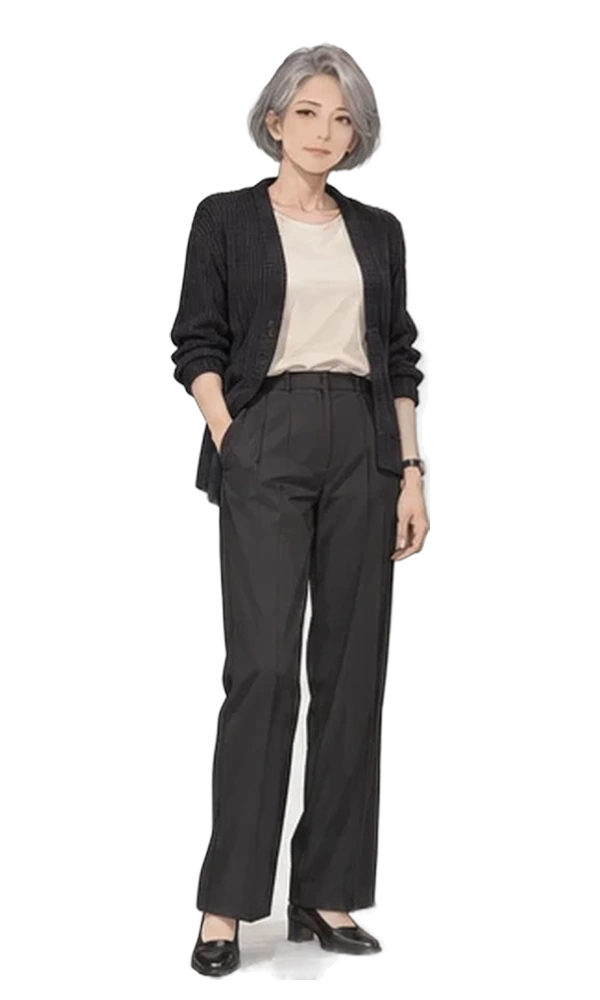
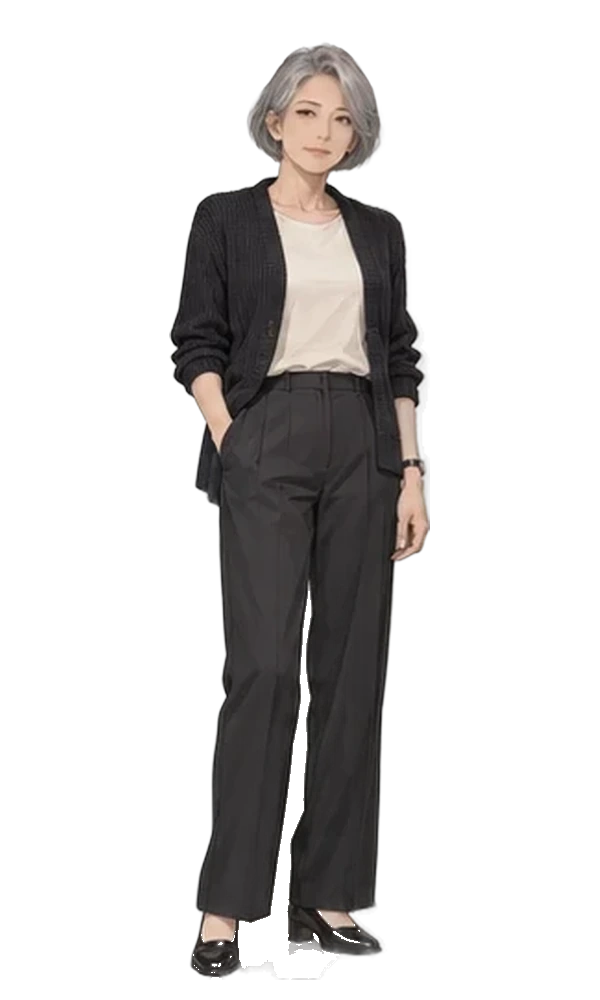
立繪表情第三批 5 張（BB-C 8f9b73b9、6ea1588f）：方奕廷 laugh、林教授 smile、周教授 smile、宥辰 smile／laugh——BB_219 第 1 節現有人物缺的 33 張到齊；林教授 neutral 兩腿中間的淺色底、腳下影子去掉
Claude-Session: https://claude.ai/code/session_01Me1thu8Zn934H58kWKNfuF

Changed region(s): [[0.39, 0.651, 0.57, 0.992]]

diff --git a/src/data/portrait_manifest.js b/src/data/portrait_manifest.js
@@ -43,7 +43,9 @@ const PORTRAIT_FILES={
  },
  "classmate_youchen": {
   "campus": [
-   "neutral"
+   "laugh",
+   "neutral",
+   "smile"
   ]
  },
  "econ_jiahao": {
@@ -176,6 +178,7 @@ const PORTRAIT_FILES={
  },
  "npc_fangyt": {
   "campus": [
+   "laugh",
    "neutral",
    "smile"
   ]
@@ -192,12 +195,14 @@ const PORTRAIT_FILES={
  },
  "prof_lin": {
   "campus": [
-   "neutral"
+   "neutral",
+   "smile"
   ]
  },
  "prof_zhou": {
   "campus": [
-   "neutral"
+   "neutral",
+   "smile"
   ]
  },
  "yu": {
